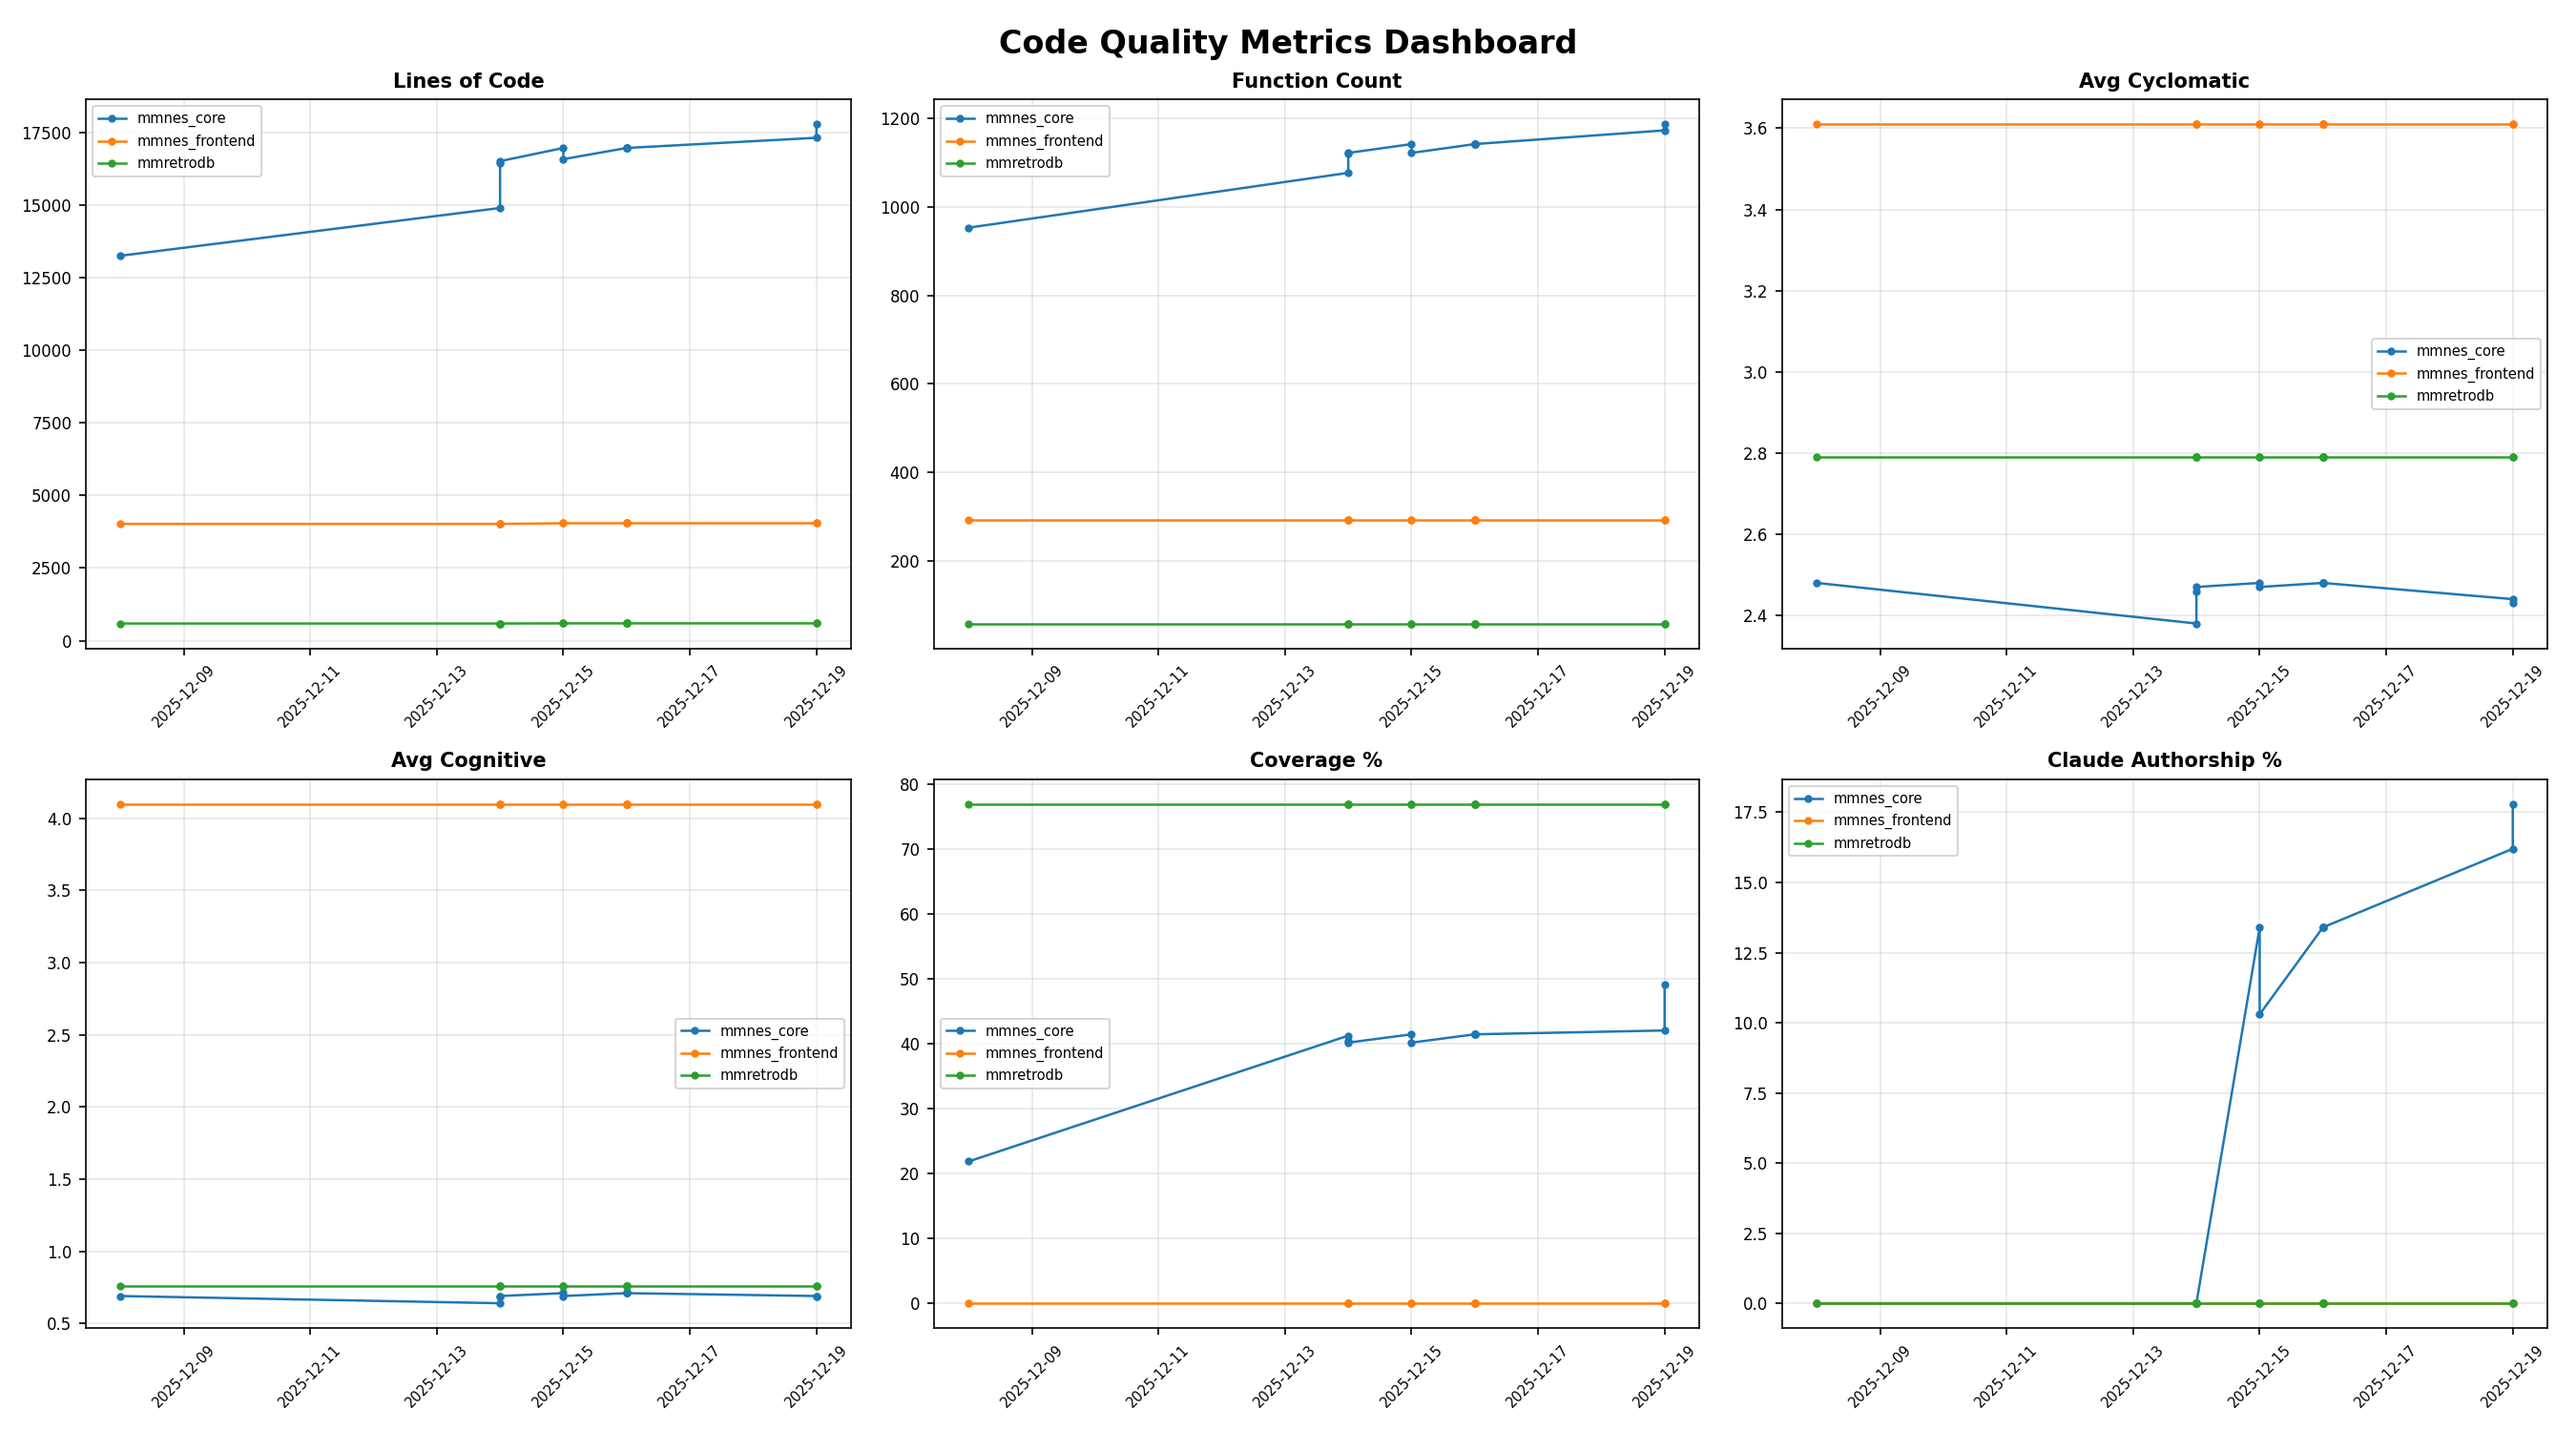
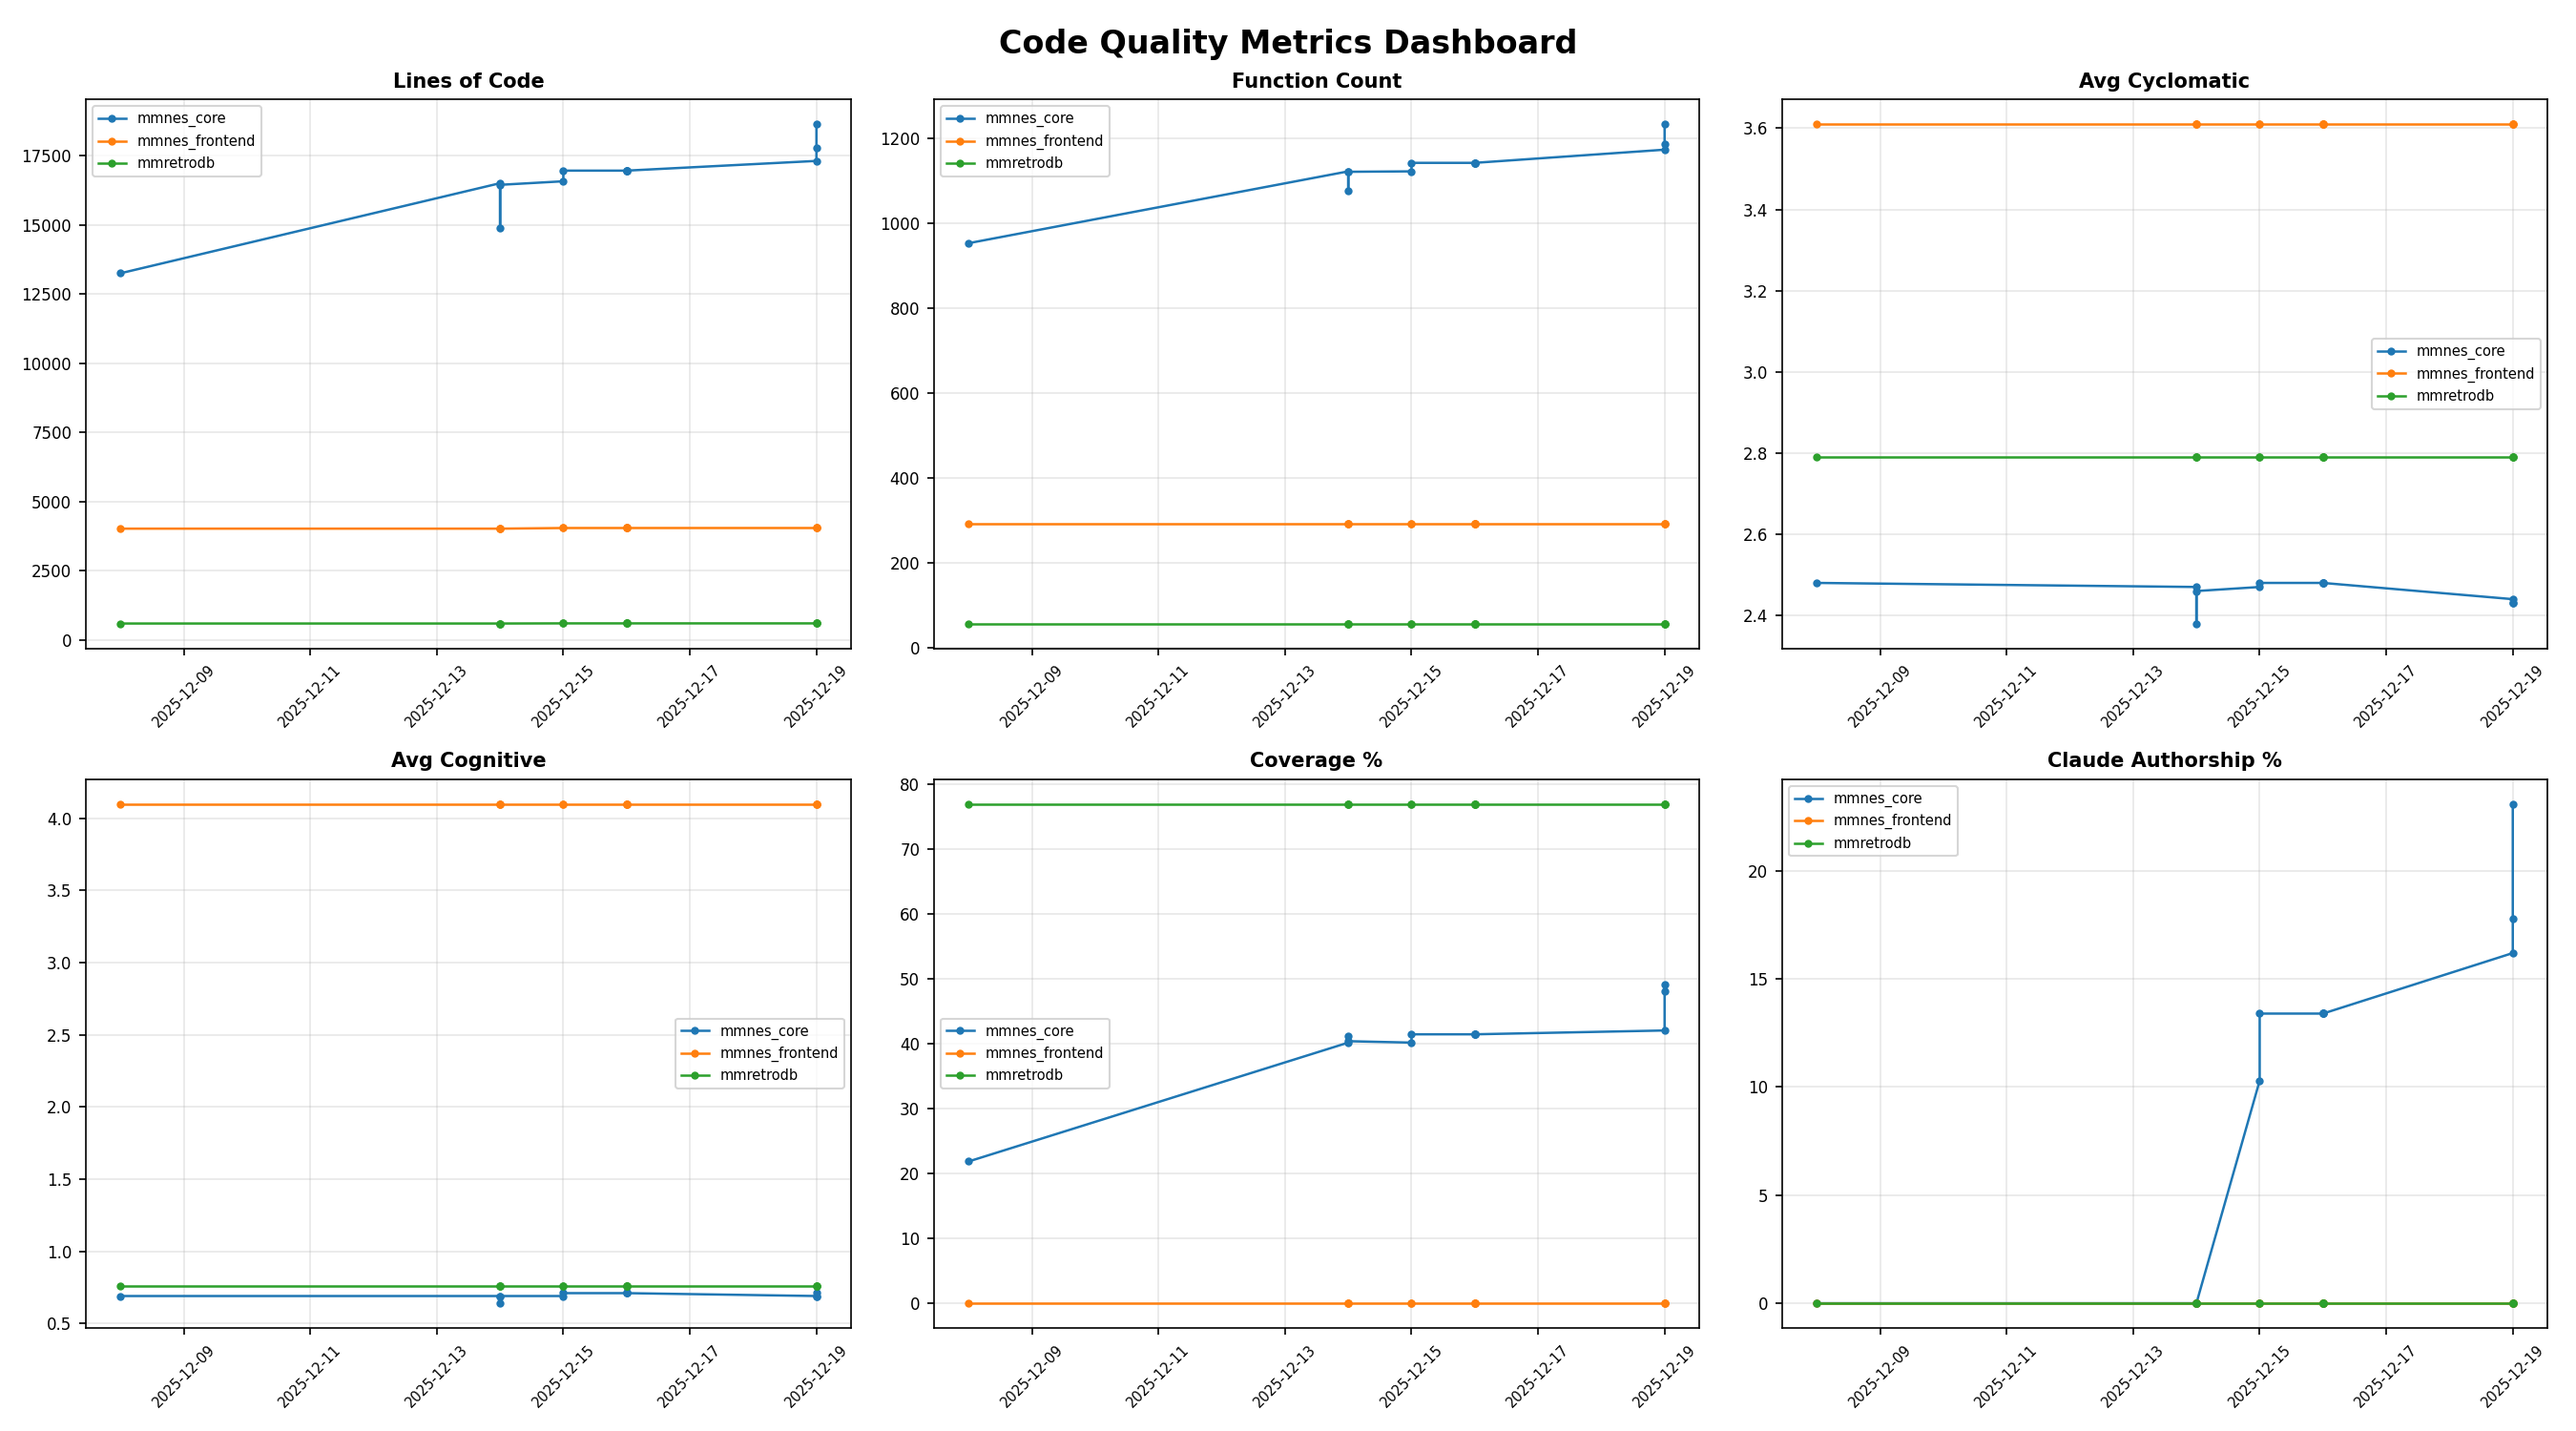
Update metrics data [skip ci]

diff --git a/metrics/data/METRICS_SUMMARY.md b/metrics/data/METRICS_SUMMARY.md
@@ -1,15 +1,15 @@
 # Code Quality Metrics Summary
 
-*Generated: 2025-12-19 22:12:21*
+*Generated: 2025-12-19 23:03:04*
 
-**Latest commit:** `96493ed` on `main`
+**Latest commit:** `ceb6ffb` on `main`
 
 ## Per-Crate Metrics
 
 | Crate | LOC | Functions | Avg Cyclo | Coverage | Human % | Claude % |
 |-------|-----|-----------|-----------|----------|---------|----------|
 | mmnes_frontend | 4043 | 293 | 3.6 | 0.0% | 100.0% | 0.0% |
-| mmnes_core | 17781 | 1187 | 2.4 | 49.1% | 82.2% | 17.8% |
+| mmnes_core | 18641 | 1233 | 2.4 | 48.0% | 76.9% | 23.1% |
 | mmretrodb | 596 | 58 | 2.8 | 77.0% | 100.0% | 0.0% |
 
 ## Definitions
